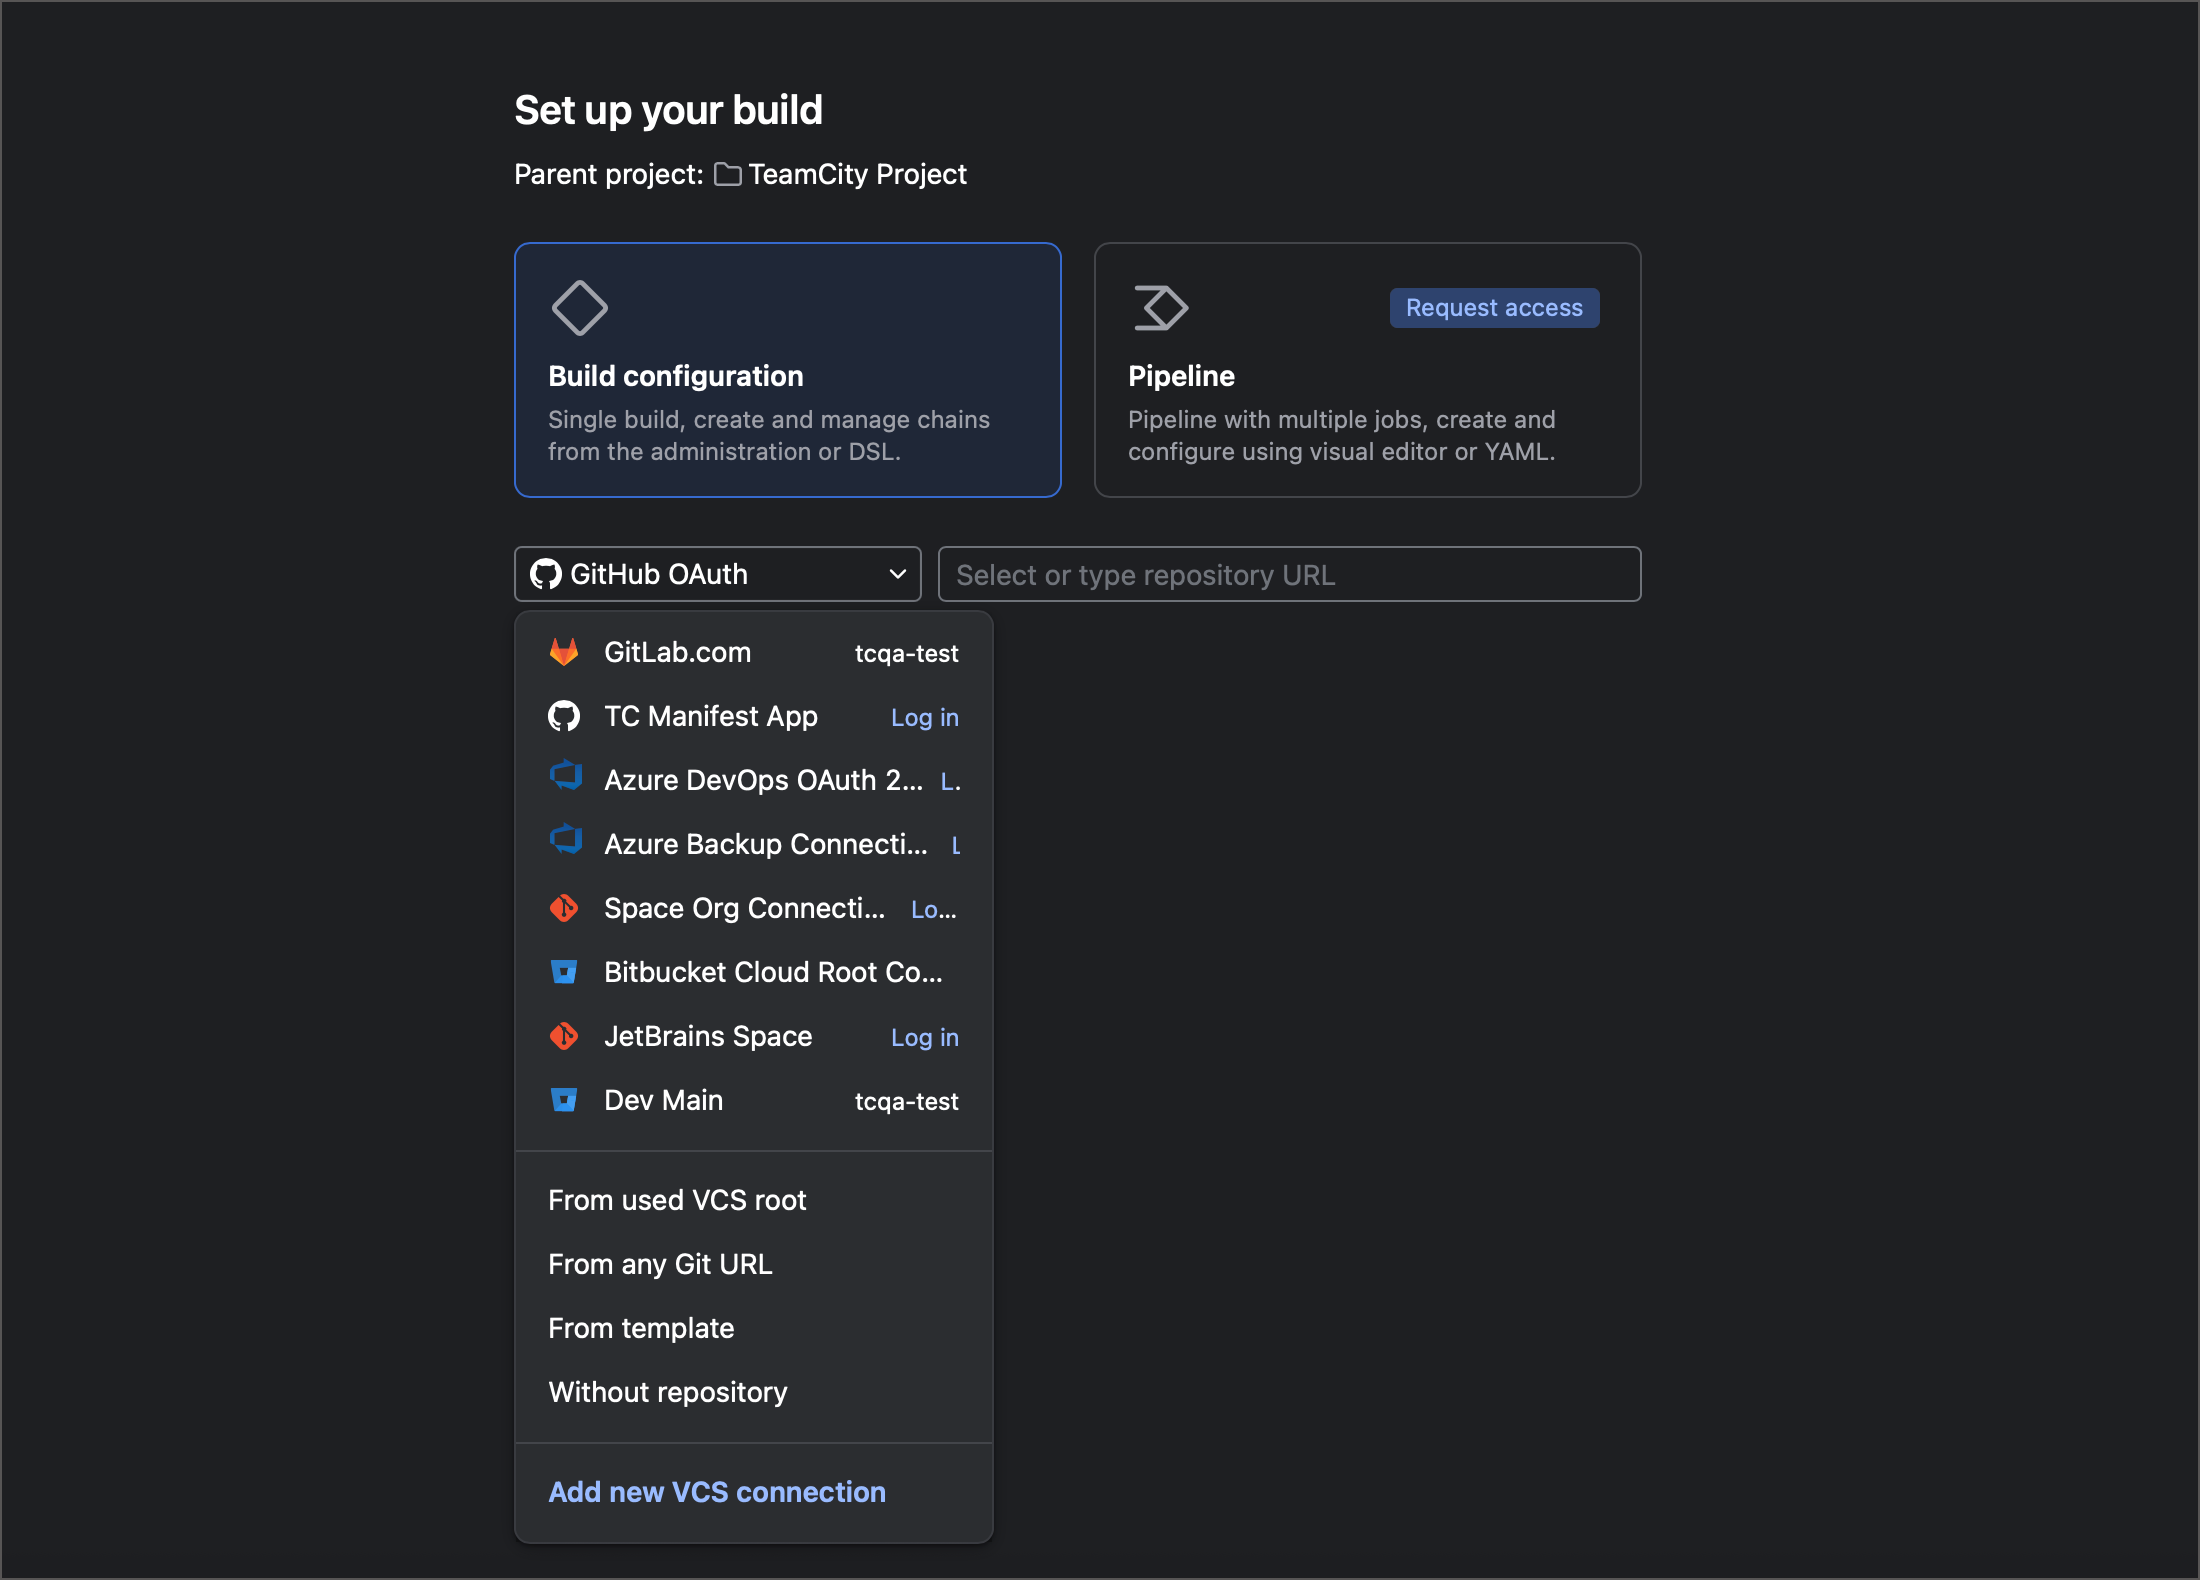
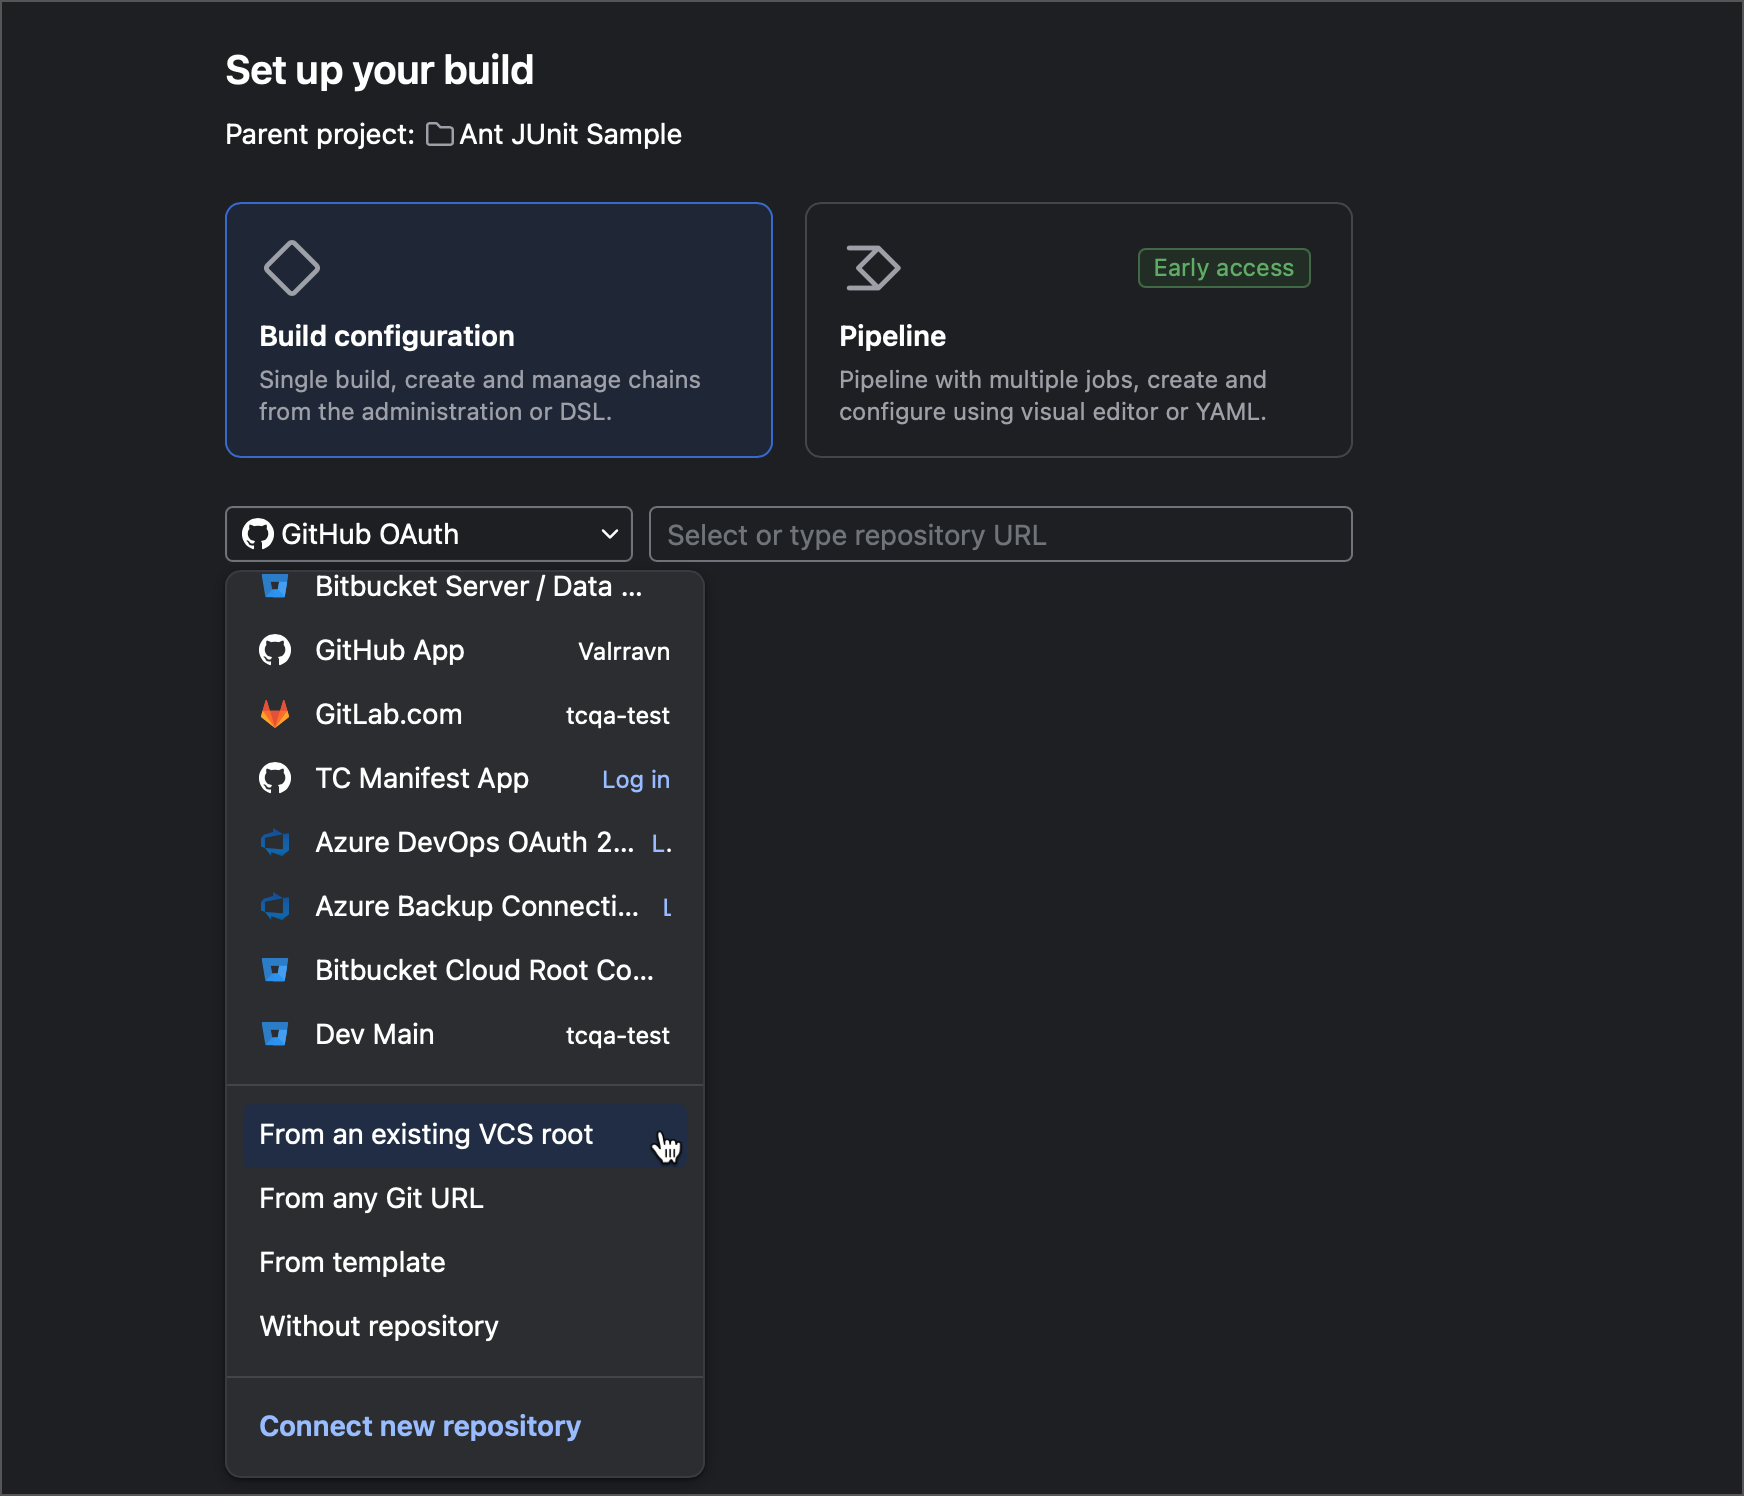
TW-92625 [DOC] Create Project page

diff --git a/topics/creating-and-editing-build-configurations.md b/topics/creating-and-editing-build-configurations.md
@@ -175,7 +175,7 @@ Available for HTTP(s) clone URLs, this option provides three authentication opti
 </step>
 
 
-<step>
+<step id="basic-config-options">
 
 Set up basic configuration options.
 
@@ -183,8 +183,6 @@ Set up basic configuration options.
 * **Default branch** — the full name of a branch that will become a default one in TeamCity (for example, `refs/heads/main`). See the following article for more information: [](working-with-feature-branches.md#Default+Branch).
 
    > By default, TeamCity tracks all branches (`refs/heads/*`). You can change this behavior later by editing the **branch specification** of a VCS root attached to this configuration. See the following topic to learn more: [](working-with-feature-branches.md).
-
-The next page contains mixed settings of both project and a build configuration owned by this project.
 
 * **Start builds on new changes in** — if enabled, adds a [VCS trigger](configuring-vcs-triggers.md) that launches new builds whenever TeamCity detects new commits.
 
@@ -215,8 +213,6 @@ Every build configuration that processes sources stored in a remote repository d
 If you already have a build configuration or a pipeline that builds, tests, or deploys a required repository, you can reuse a VCS root of that configuration/pipeline. To do this, use either of the following methods:
 
 * Create new configuration — select **From an existing root** option on the **Set up your build** page.
-
-    <img src="" width="706" alt="Create configuration from existing root"/>
 
 * Edit existing configuration — navigate to **Build Configuration Settings | Version Control** and click **Attach VCS root**.
 
@@ -291,9 +287,9 @@ All VCS roots download sources into the same [checkout directory](build-checkout
 
 In this example, we will add a connection to GitHub and use it to create a new build configuration.
 
-TeamCity supports two GitHub authentication methods: OAuth 2.0 and [GitHub App](https://docs.github.com/en/apps/creating-github-apps/about-creating-github-apps/about-creating-github-apps). In this walkthrough, we will use an automatically configured GitHub App, which requires no customization and takes less than a minute to set up. To learn more about both connection types and other VCS provider connections, refer to this article: [](configuring-connections.md).
+TeamCity supports two GitHub authentication methods: OAuth 2.0 and [GitHub App](https://docs.github.com/en/apps/creating-github-apps/about-creating-github-apps/about-creating-github-apps). Both types require minimal customization and take less than a minute to set up. To learn more about both connection types and other VCS provider connections, refer to this article: [](configuring-connections.md).
 
-You can create a connection-based configuration in two ways: create a connection under project settings and select it on the **Set up your build** page, or do everything from this single page.
+You can create a connection-based configuration in two ways: create a connection under project settings and select it on the **Set up your build** page, or do everything from this single page. The tabs below illustrate both approaches.
 
 <tabs>
 
@@ -310,39 +306,50 @@ Use TeamCity UI to [add a build configuration](#Create+Build+Configurations+in+T
 
 <step>
 
-Select **Add new VCS connection** from the drop-down menu.
+Select **Connect new repository** from the drop-down menu.
 
 </step>
 
 <step>
 
-Click the **GitHub** tile and choose **GitHub App**.
+Expand the **GitHub** tile and choose **GitHub.com**.
 
-<img src="new-github-app-redesigned-flow.png" width="706" alt="New GitHub App"/>
-
-</step>
-
-<step>
-
-Click the **Create App** button above connection settings.
-
-</step>
-
-<include from="creating-and-editing-build-configurations.md" element-id="github-app-settings-steps"/>
-
-<step>
-
-Back in TeamCity, specify the connection name and click **Add** to save your new connection.
+<img src="dk-new-connection-from-connect-repo.png" width="706" thumbnail="true" alt="New GitHub App"/>
 
 </step>
 
 <step>
 
-When your new connection is ready, you will navigate back to the **Set up your build** page. Make sure the repository origin menu points to your new connection. You might need to sign in to your GitHub account when you use this new App-based connection for the first time.
+Follow TeamCity instructions to navigate to your GitHub "Developer Settings" page and create a new application.
+
+<img src="dk-new-flow-github-connection.png" width="706" alt="New GitHub.com connection"/>
 
 </step>
+
+<step>
+
+On the GitHub application page, click **Generate a new client secret** and paste both this secret and client ID to corresponding TeamCity connection properties.
+
+</step>
+
+<step>
+
+Once the application is installed on GitHub, you can select your new connection in the **Set up your build** page drop-down menu. Note that upon the first usage, you will need to click **Authorize &lt;Username&gt;** to log in GitHub using your new connection.
 
 <include from="creating-and-editing-build-configurations.md" element-id="existing-connection-repo-list"/>
+
+</step>
+
+<step>
+
+<snippet id="create-config-final-steps">
+
+Set up [basic configuration options](#basic-config-options) and click **Create** to finish.
+
+</snippet>
+
+
+</step>
 
 </procedure>
 
@@ -406,17 +413,25 @@ Choose your new connection from the list. If this connection is used for the ver
 
 </step>
 
+<step>
+
 <snippet id="existing-connection-repo-list">
 
-<step>
 
 TeamCity will show a list of repositories accessible via the underlying connection. Use the search panel to find the desired repository, then click it to continue.
 
 <img src="repo-list-from-connection.png" width="706" alt="The list of connection repositories"/>
 
+</snippet>
+
 </step>
 
-</snippet>
+<step>
+
+<include from="creating-and-editing-build-configurations.md" element-id="create-config-final-steps"/>
+
+</step>
+
 
 </procedure>
 

diff --git a/topics/configuring-connections.md b/topics/configuring-connections.md
@@ -40,7 +40,7 @@ To create a new connection, do the following:
 
 You can also create new VCS connections from the **Set up your build** page when adding new configurations or pipelines. Choose the **Connect new repository** option in the drop-down menu to view available options.
 
-<img src="" width="706" alt="Add new VCS connection"/>
+<img src="dk-new-connection-from-connect-repo.png" width="706" alt="All build config creation options" thumbnail="true"/>
 
 ## Azure DevOps
 
